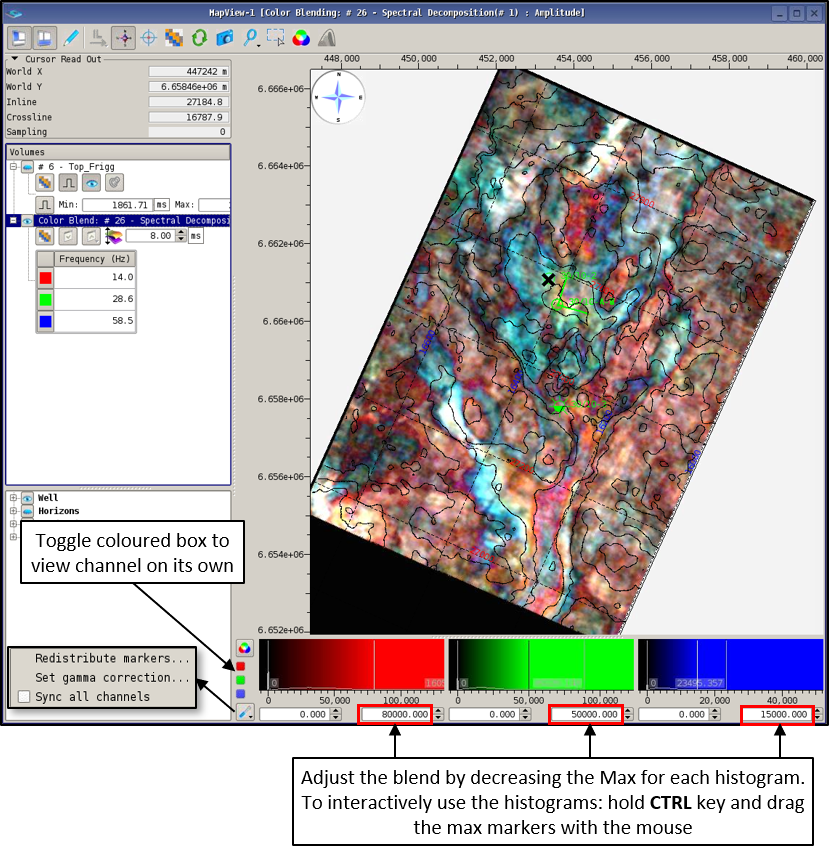
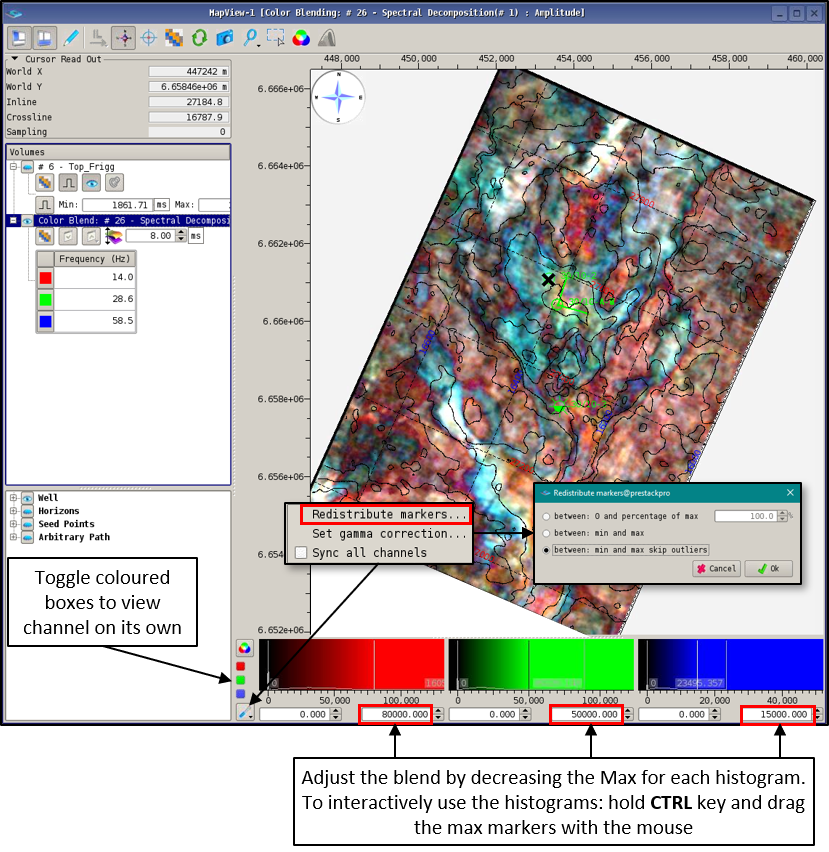
Creates assets/sp_10_avovols.png
Auto commit by GitBook Editor

diff --git a/spectral-decomposition.md b/spectral-decomposition.md
@@ -41,9 +41,13 @@ There are two options making Spectral Decomposition maps:
 
 The RGB blend display is controlled with the histograms in the Map window. Decrease the Max. of the histogram to increase the brightness of that channel. Each channel can be viewed on it's own; to view just the Red channel alone toggle OFF the Green and Blue channels using the small boxes to the left of the histograms. This allows the user to assess the relative components and adjust the histogram scaling in order to optimize the blend. The maximum marker for each histogram can be moved with the mouse by holding down the control button.
 
-The gamma correction is set to 0.8 by default, this can be changed by clicking on the spanner icon next to the histograms.
-
 ![](/assets/sp_06_rgb-blend.png)
+
+The settings icon to the left of the histograms has additional options:
+
+* Redistribute markers: includes the useful option to skip outliers
+* Set gamma correction: by default this is set to 0.8 by default
+* Sync all channels
 
 Note that the frequencies of each RGB channel can be controlled from the tree in the Map window. The time shift for the horizon/slice can also be controlled from the Map window.
 
@@ -65,15 +69,19 @@ Load a saved map into the Data Pool. Drag and drop the saved map into the Map wi
 
 ![](/assets/sp_07_restoringablend.png)
 
-
-
 ## Blending Non-Frequency Volumes
 
+The RGB blending module is not restricted to frequency data: it can be used to blend any seismic volumes. For example, the three channels \(Red, Green, Blue\) can be used to blend angle stacks, 4D volumes, or azimuthal datasets, etc. Care should be taken with the histogram ranges: the RGB channels are amplitudes and not frequency, and so don't start at zero.
+
+To  load non-frequency volumes into the RGB Blender, click on the **RGB Blend icon** on the Map window: ![](/assets/sp_icon_RGB.png)
+
+Select the 3 volumes to blend \(these should be pre-loaded into the Data Pool\) and press OK. The Map window will change to a Blend display of a time slice set to 0 by default. Select the time slice for each RGB channel and the Map will update. Change the histogram settings to adjust the blend, setting the markers to skip outliers may improve the display \(settings icon &gt; reset markers &gt; between min and max skip outliers\)
+
+![](/assets/sp_10_avovols.png)
 
 
 
-
-
+_Near, Mid and Far volumes blended as a time slice_
 
 
 
